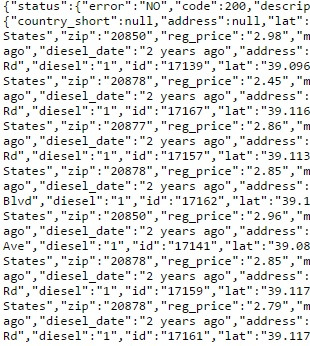
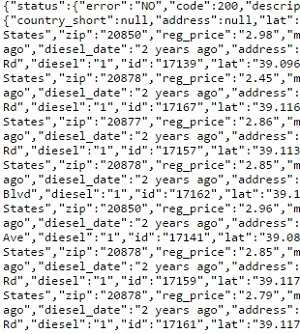
resize + only mobile padding

diff --git a/site.css b/site.css
@@ -81,7 +81,7 @@ body {
 	height: 100%; /* For at least Firefox */
 	min-height: 100%;
 	margin-top: 70px;
-	padding-top: 10%;
+
 }
 .blogmain {
 	display: table;
@@ -241,6 +241,7 @@ h4{
 		min-height: 100%;
 		margin-top: 70px;
 		margin: auto;
+		padding-top: 10%;
 	}
 	.sidebar{
 		width:100%;
@@ -277,6 +278,7 @@ h4{
 		min-height: 100%;
 		margin-top: 70px;
 		margin: auto;
+		padding-top: 10%;
 	}
 	.sidebar{
 		width:100%;

diff --git a/index.html b/index.html
@@ -76,7 +76,7 @@
 						<div class = pic>
 							<b>myGasFeed API JSON response</b>
 							<br>
-							<img src="CGP2.jpg" alt="CGP2" style="width:310px;height:346px;">
+							<img src="CGP2.jpg" alt="CGP2" style="width:300px;height:346px;">
 							<br>
 							<br>
 						</div>
